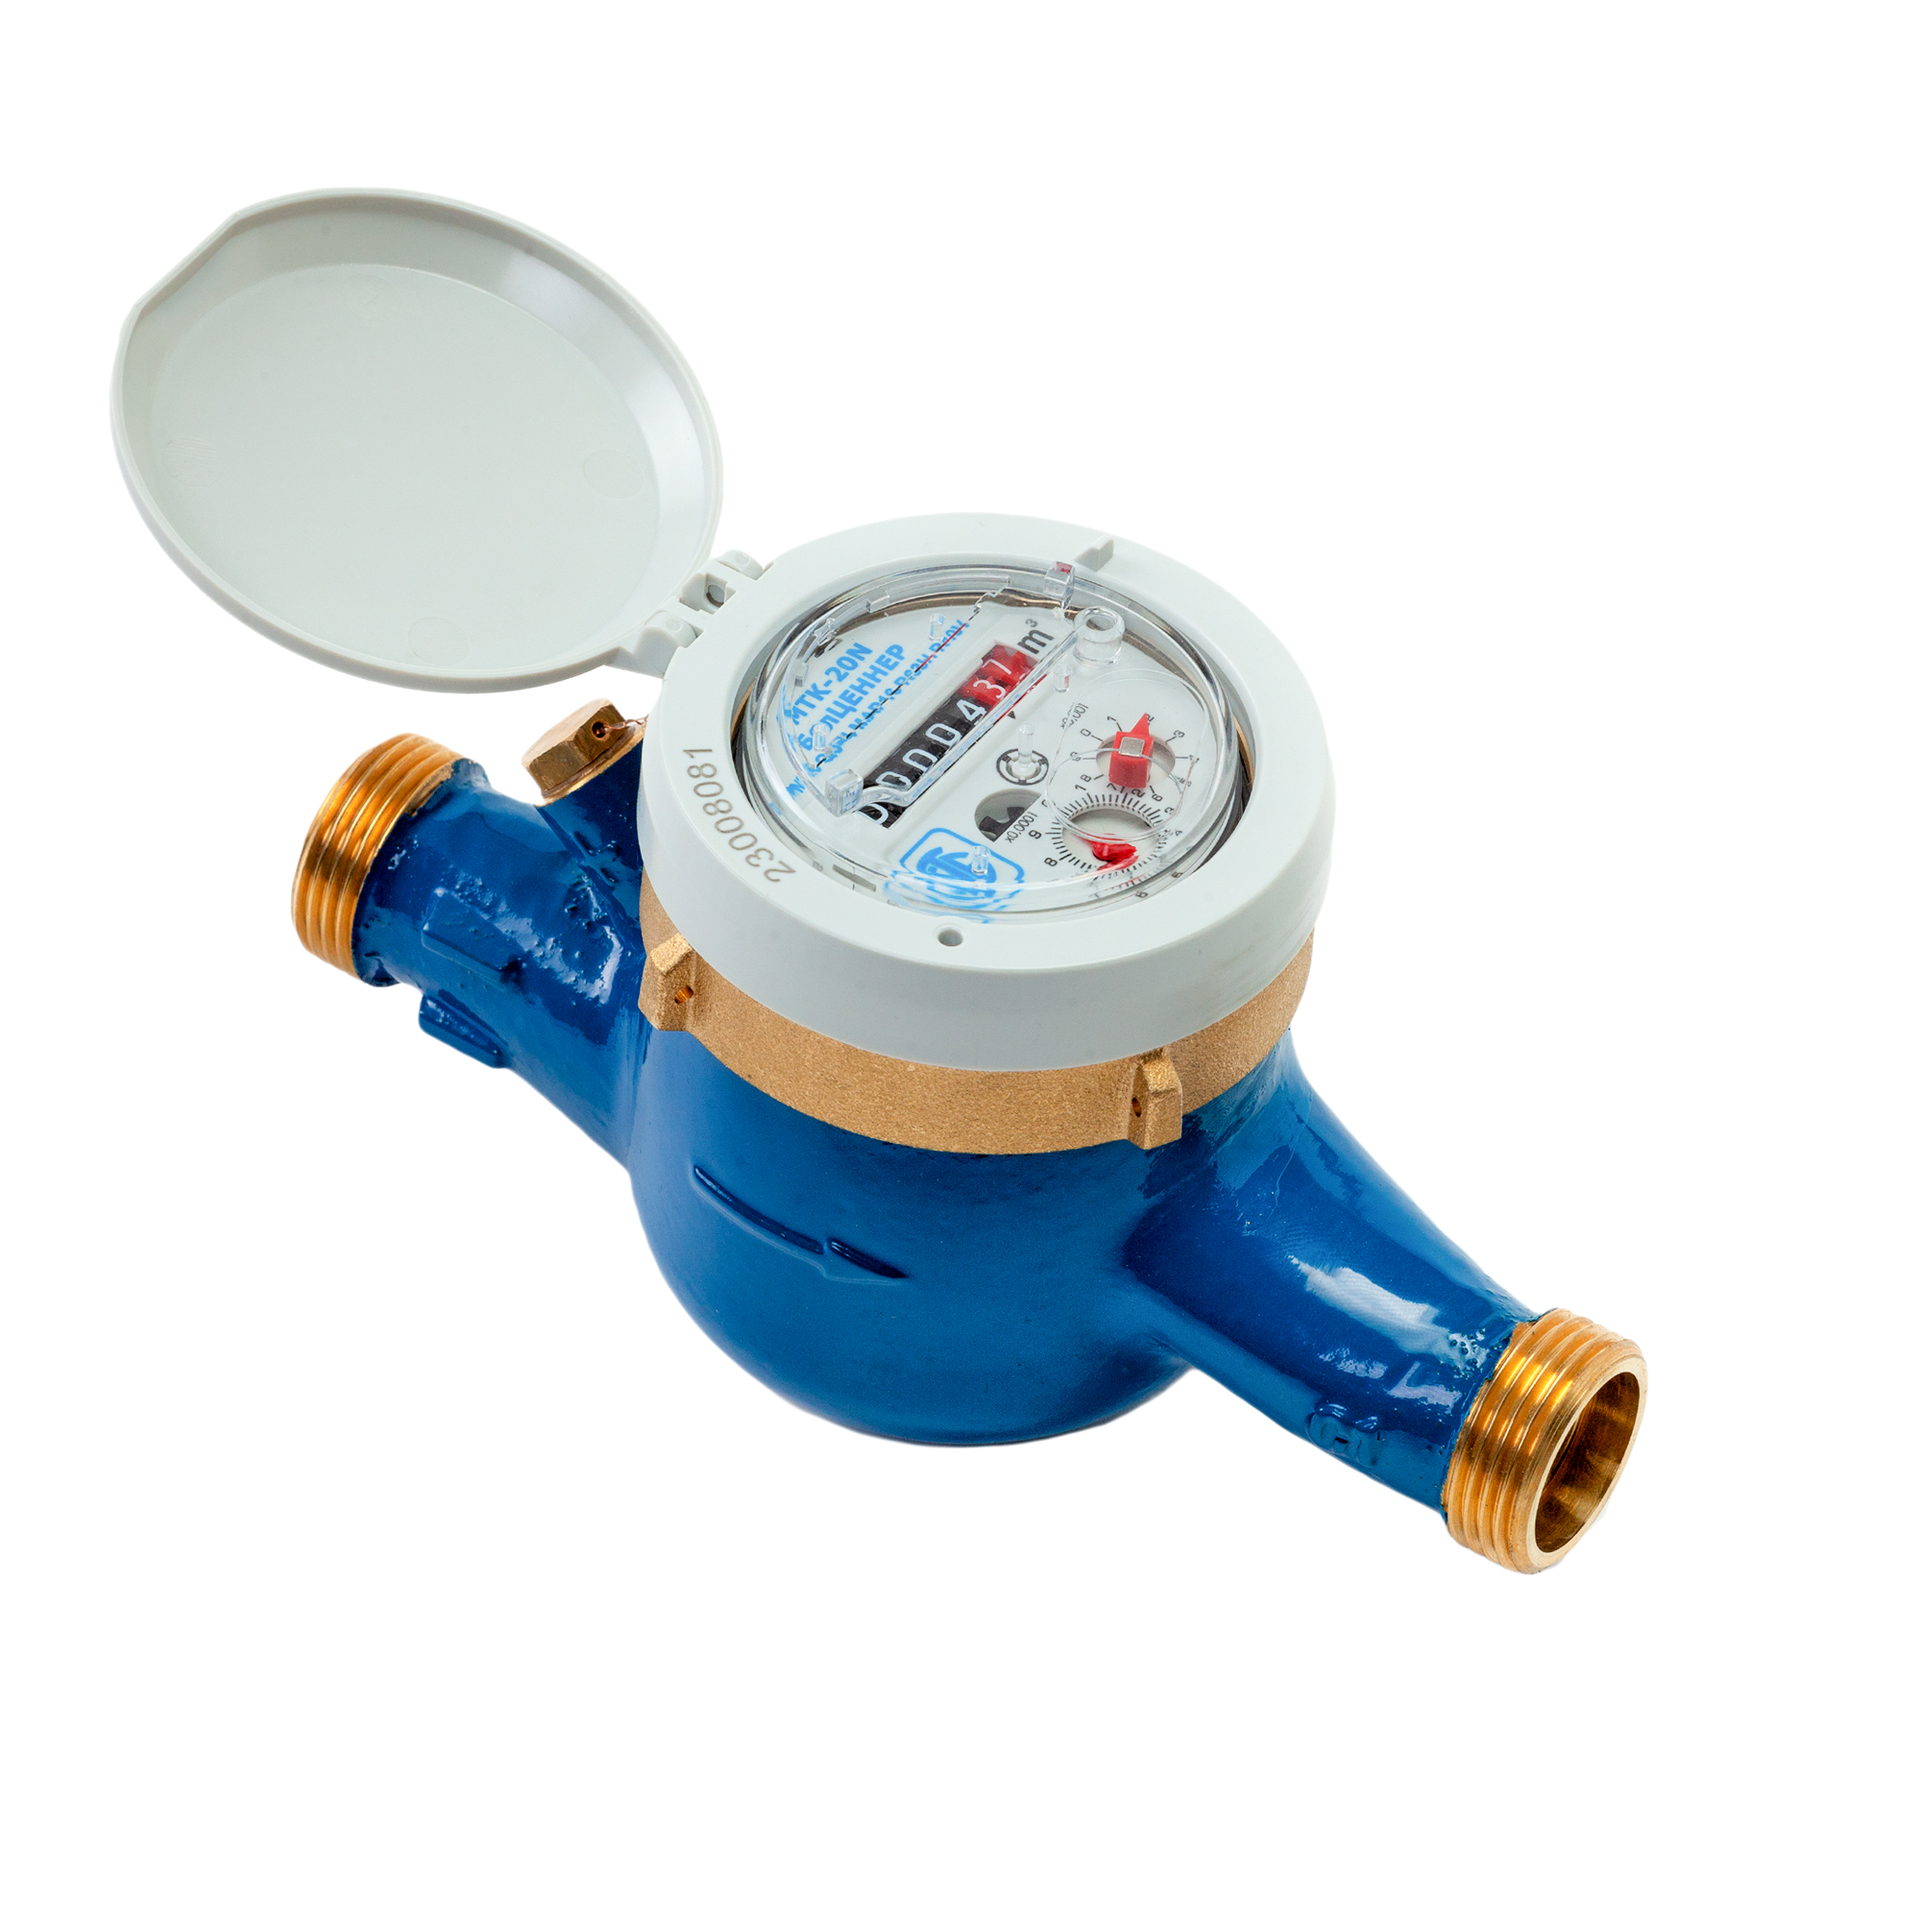
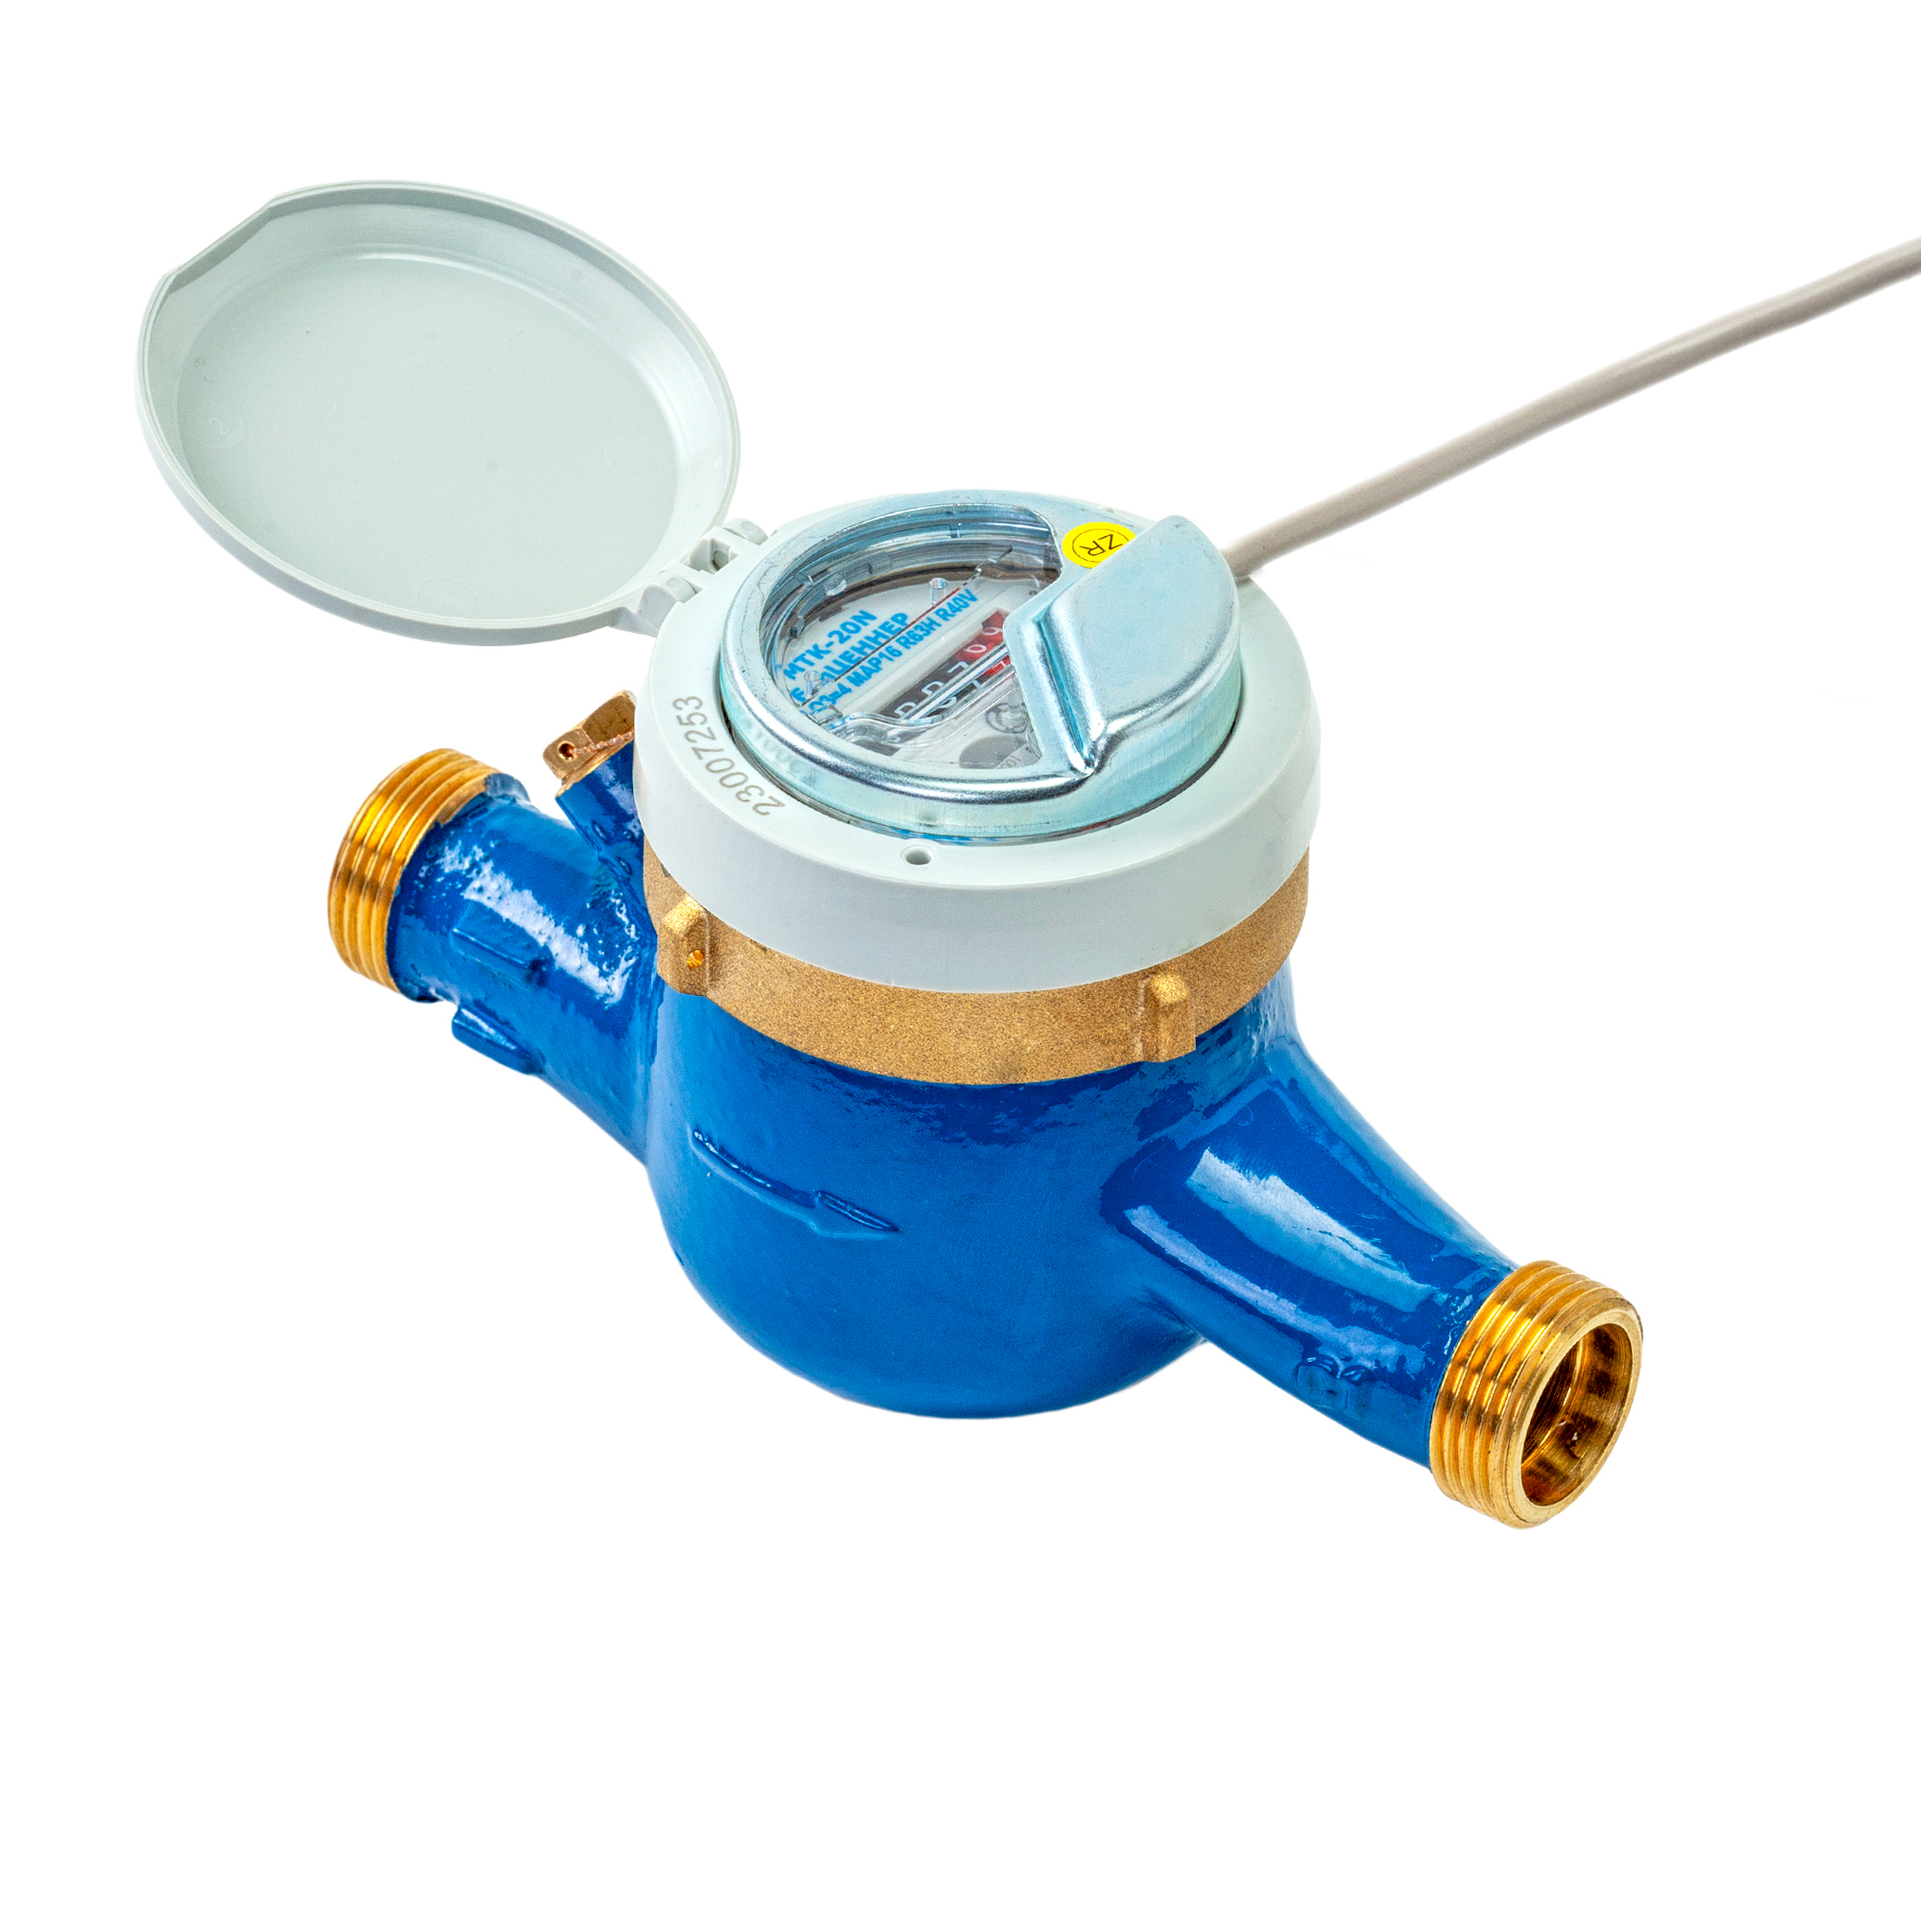
Обновить контент лендинга: правки текстов, удаление блока #help, замена изображений счётчиков

Changed region(s): [[0.031, 0.093, 1.0, 0.837]]

diff --git a/src/content/homepage/-index.md b/src/content/homepage/-index.md
@@ -34,7 +34,7 @@ hero:
     link: "#price-physical"
   secondaryCta:
     label: Скиньте фото счётчика
-    link: "#help"
+    link: "https://t.me/teleofis_by"
 
 stats:
   title: Радиомодем в цифрах
@@ -59,22 +59,22 @@ flow:
     - title: Счётчик с импульсным выходом
       text: ЕТК-м-N-I (ХВС) или ЕТW-м-N-I (ГВС) — провод подключается на два контакта модуля.
       icon: FaTint
-    - title: Радиомодем 2576 NB-IoT
+    - title: Модуль передачи данных NB-IoT
       text: Собирает, хранит и отправляет показания с двух счётчиков раз в сутки.
       icon: FaBroadcastTower
     - title: Сеть NB-IoT
       text: SIM-карта МТС «IoT-сеть» — выделенная сеть, улучшенное проникновение, 0,96 руб./мес.
       icon: FaMobileAlt
-    - title: Платформа UNICBOARD
+    - title: Платформа
       text: Хранит архив показаний и передаёт данные на серверы ресурсоснабжающей организации.
       icon: FaLayerGroup
     - title: УП «Минскводоканал»
-      text: Показания приняты — предписание выполнено, счёт формируется по факту потребления.
+      text: Выдаётся Акт ввода в эксплуатацию, и вы исполняете предписание.
       icon: FaBuilding
 
 modem:
   title: Радиомодем 2576 NB-IoT
-  subtitle: Разработка и производство ООО «Неро Электроникс», СЭЗ «Минск», Республика Беларусь
+  subtitle: Разработка и производство Республика Беларусь
   price: 455 BYN
   priceNote: Модуль без SIM-карты и платформы — для монтажных и строительных организаций
   image: /images/radiomodem-2576-photo.png
@@ -117,8 +117,8 @@ modem:
       href: /docs/datasheet-radiomodem-2576.pdf
 
 platform:
-  title: Платформа UNICBOARD
-  subtitle: Разработка ООО «Юник Лаб» (unic-lab.ru) — хранит данные и передаёт их в Минскводоканал
+  title: Платформа
+  subtitle: — хранит данные и передаёт их в Водоканал вашего города
   image: /images/unicboard-screenshot.webp
   imageAlt: Интерфейс платформы UNICBOARD
   points:
@@ -131,15 +131,15 @@ platform:
   accordions:
     - title: Технологический стек
       items:
-        - Backend: Python, Flask, SQLAlchemy, RabbitMQ, MessagePack/JSON, Nginx
-        - Базы данных: Postgres 14 (Patroni cluster, Master-Slave), Redis, etcd
-        - Инфраструктура: Kubernetes, Sentry, Prometheus, Loki, Grafana
-        - Frontend: JavaScript, VueJS 2.5
+        - Backend — Python, Flask, SQLAlchemy, RabbitMQ, MessagePack/JSON, Nginx
+        - Базы данных — Postgres 14 (Patroni cluster, Master-Slave), Redis, etcd
+        - Инфраструктура — Kubernetes, Sentry, Prometheus, Loki, Grafana
+        - Frontend — JavaScript, VueJS 2.5
     - title: Архитектура решения
       items:
         - DataGateway Service — получение и парсинг сырых данных, интеграция с внешними системами
         - DataAggregator Service — агрегация потребления, интерполяция, REST API для внешних систем
-        - DataLogger — регистратор данных: внутренняя память, внешнее хранилище, облако
+        - DataLogger — регистратор данных (внутренняя память, внешнее хранилище, облако)
         - Notification — система уведомлений; Translation — переводы интерфейса
         - Pii/Auth Service — управление доступом и настройками пользователей
         - Frontend Application — личный кабинет; Reporting — система отчётности
@@ -196,7 +196,7 @@ pricing:
   conditions:
     - Оплата 100% предоплата — ЕРИП E-POS или безнал для юрлиц
     - Срок выполнения работ — до 5 рабочих дней
-    - Монтаж специалистом — только Минск (входит в 656 / 593.62 BYN)
+    - Монтаж специалистом — только Минск (для юрлиц — 593.62 BYN, для физлиц — 656.00 BYN)
     - Доставка по Минску при покупке модуля без монтажа — 12 BYN
     - Самовывоз не предусмотрен
     - Минск и Минский район — фиксированные цены, Минская область — по запросу
@@ -221,11 +221,14 @@ meters:
     - image: /images/schetchik-mtk-20-s-impulsom.jpg
       title: МТК-20 и старше
       text: Групповые счётчики для подъездов и домов — до 4 приборов на один модуль для юрлиц.
+    - image: /images/schetchik-vskm-15-dg2.webp
+      title: ВСКМ-15 ДГ2
+      text: Квартирный счётчик с импульсным выходом — популярный вариант для установки на один модуль.
   note: К одному модулю подключаются до 2 счётчиков для физлиц и до 4 — для юрлиц, включая сопряжённые 80/20 и 50/20.
 
 business:
   title: Для ТС, ЖСПК и организаций
-  text: "Собираем показания по всему дому одним решением: до 4 счётчиков на модуль, монтаж, счета, договоры и безналичный расчёт. Данные передаются на УП «Минскводоканал» автоматически."
+  text: "Собираем показания по всему дому одним решением: до 4 счётчиков на модуль и безналичный расчёт. Данные передаются на УП «Минскводоканал» автоматически."
   bulletpoints:
     - До 4 счётчиков на один модуль
     - Счета и договоры, безналичный расчёт
